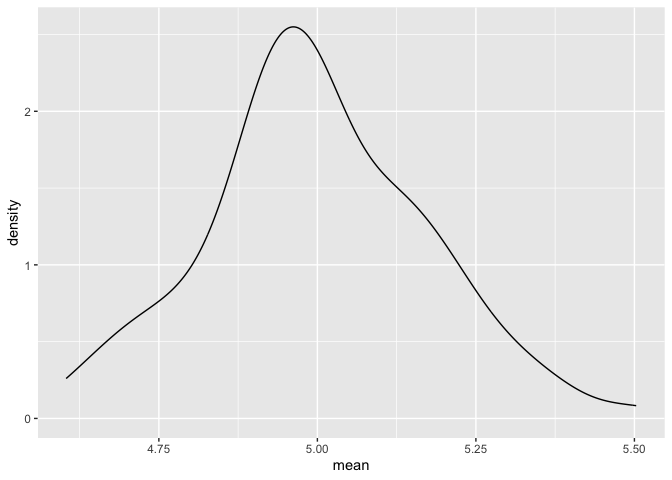
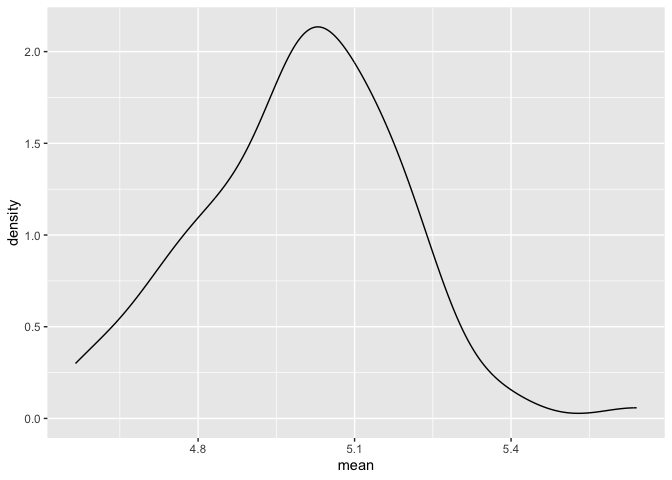
normal distribution

diff --git a/simulation.md b/simulation.md
@@ -23,6 +23,8 @@ library(tidyverse)
     ## ℹ Use the conflicted package (<http://conflicted.r-lib.org/>) to force all conflicts to become errors
 
 ``` r
+set.seed(1)
+
 sim_mean_sd = function(n_obs, mu = 5, sigma = 1) {
   
   x_vec = rnorm(n = n_obs, mean = mu, sd = sigma)
@@ -44,7 +46,7 @@ sim_mean_sd(n_obs = 30)
     ## # A tibble: 1 × 2
     ##    mean    sd
     ##   <dbl> <dbl>
-    ## 1  4.96  1.03
+    ## 1  5.08 0.924
 
 Let’s iterate to see how this works UNDER REPEATED SAMPLING!!!
 
@@ -74,4 +76,26 @@ sim_results |>
     ## # A tibble: 1 × 2
     ##   mu_hat sd_hat
     ##    <dbl>  <dbl>
-    ## 1   5.00  0.174
+    ## 1   4.99  0.192
+
+use a map function
+
+``` r
+sim_results_df = 
+  expand_grid(
+    sample_size = c(30, 60, 120, 240),
+    iter = 1:1000
+  ) |> 
+  mutate(estimate_df = map(sample_size, sim_mean_sd)) |> 
+  unnest(estimate_df)
+
+sim_results_df |> 
+  mutate(
+    sample_size = str_c("n = ", sample_size),
+    sample_size = fct_inorder(sample_size)
+  ) |> 
+  ggplot(aes(x = sample_size, y = mean)) +
+  geom_boxplot()
+```
+
+![](simulation_files/figure-gfm/unnamed-chunk-4-1.png)<!-- -->
